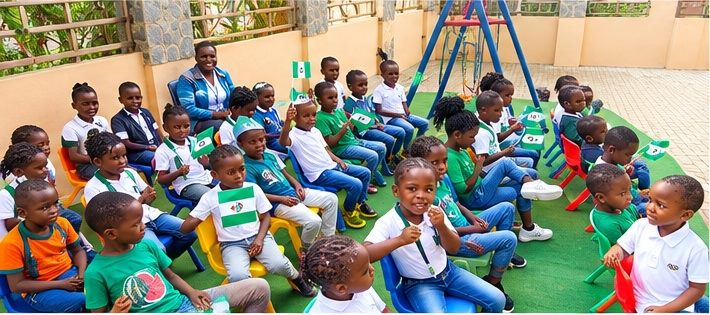
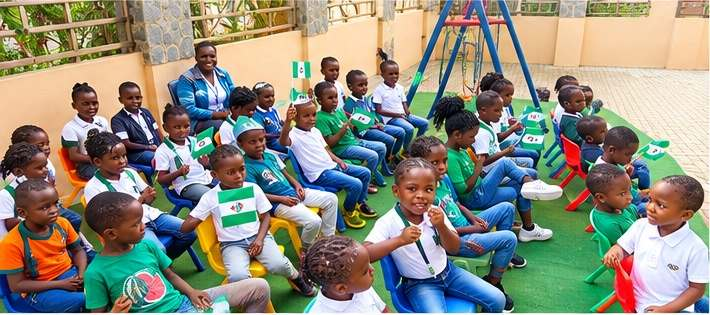
Improve image delivery and text contrast

diff --git a/src/components/ProgramsSection.tsx b/src/components/ProgramsSection.tsx
@@ -32,7 +32,7 @@ export function ProgramsSection() {
                     <Icon size={20} />
                   </div>
                   {program.age && (
-                    <span className="ml-auto text-[11px] font-semibold tracking-wider uppercase rounded-full bg-bg-secondary px-2.5 py-0.5 text-muted">
+                    <span className="ml-auto text-[11px] font-semibold tracking-wider uppercase rounded-full bg-bg-secondary px-2.5 py-0.5 text-body">
                       {program.age}
                     </span>
                   )}

diff --git a/src/components/AdmissionsSection.tsx b/src/components/AdmissionsSection.tsx
@@ -30,7 +30,7 @@ export function AdmissionsSection() {
             </a>
           </div>
 
-          <p className="mt-12 text-sm text-muted text-center max-w-xs mx-auto">
+          <p className="mt-12 text-sm text-body text-center max-w-xs mx-auto">
             Admission availability is confirmed by the school directly — please get in touch to
             check current openings before applying.
           </p>

diff --git a/src/components/ui/section-heading.tsx b/src/components/ui/section-heading.tsx
@@ -24,7 +24,7 @@ export const SectionHeading: React.FC<SectionHeadingProps> = ({
       {tagline && (
         <p className="mb-6 text-lg text-muted italic">{tagline}</p>
       )}
-      {support && <p className="text-muted max-w-2xl mx-auto">{support}</p>}
+      {support && <p className="text-body max-w-2xl mx-auto">{support}</p>}
     </div>
   )
 }
